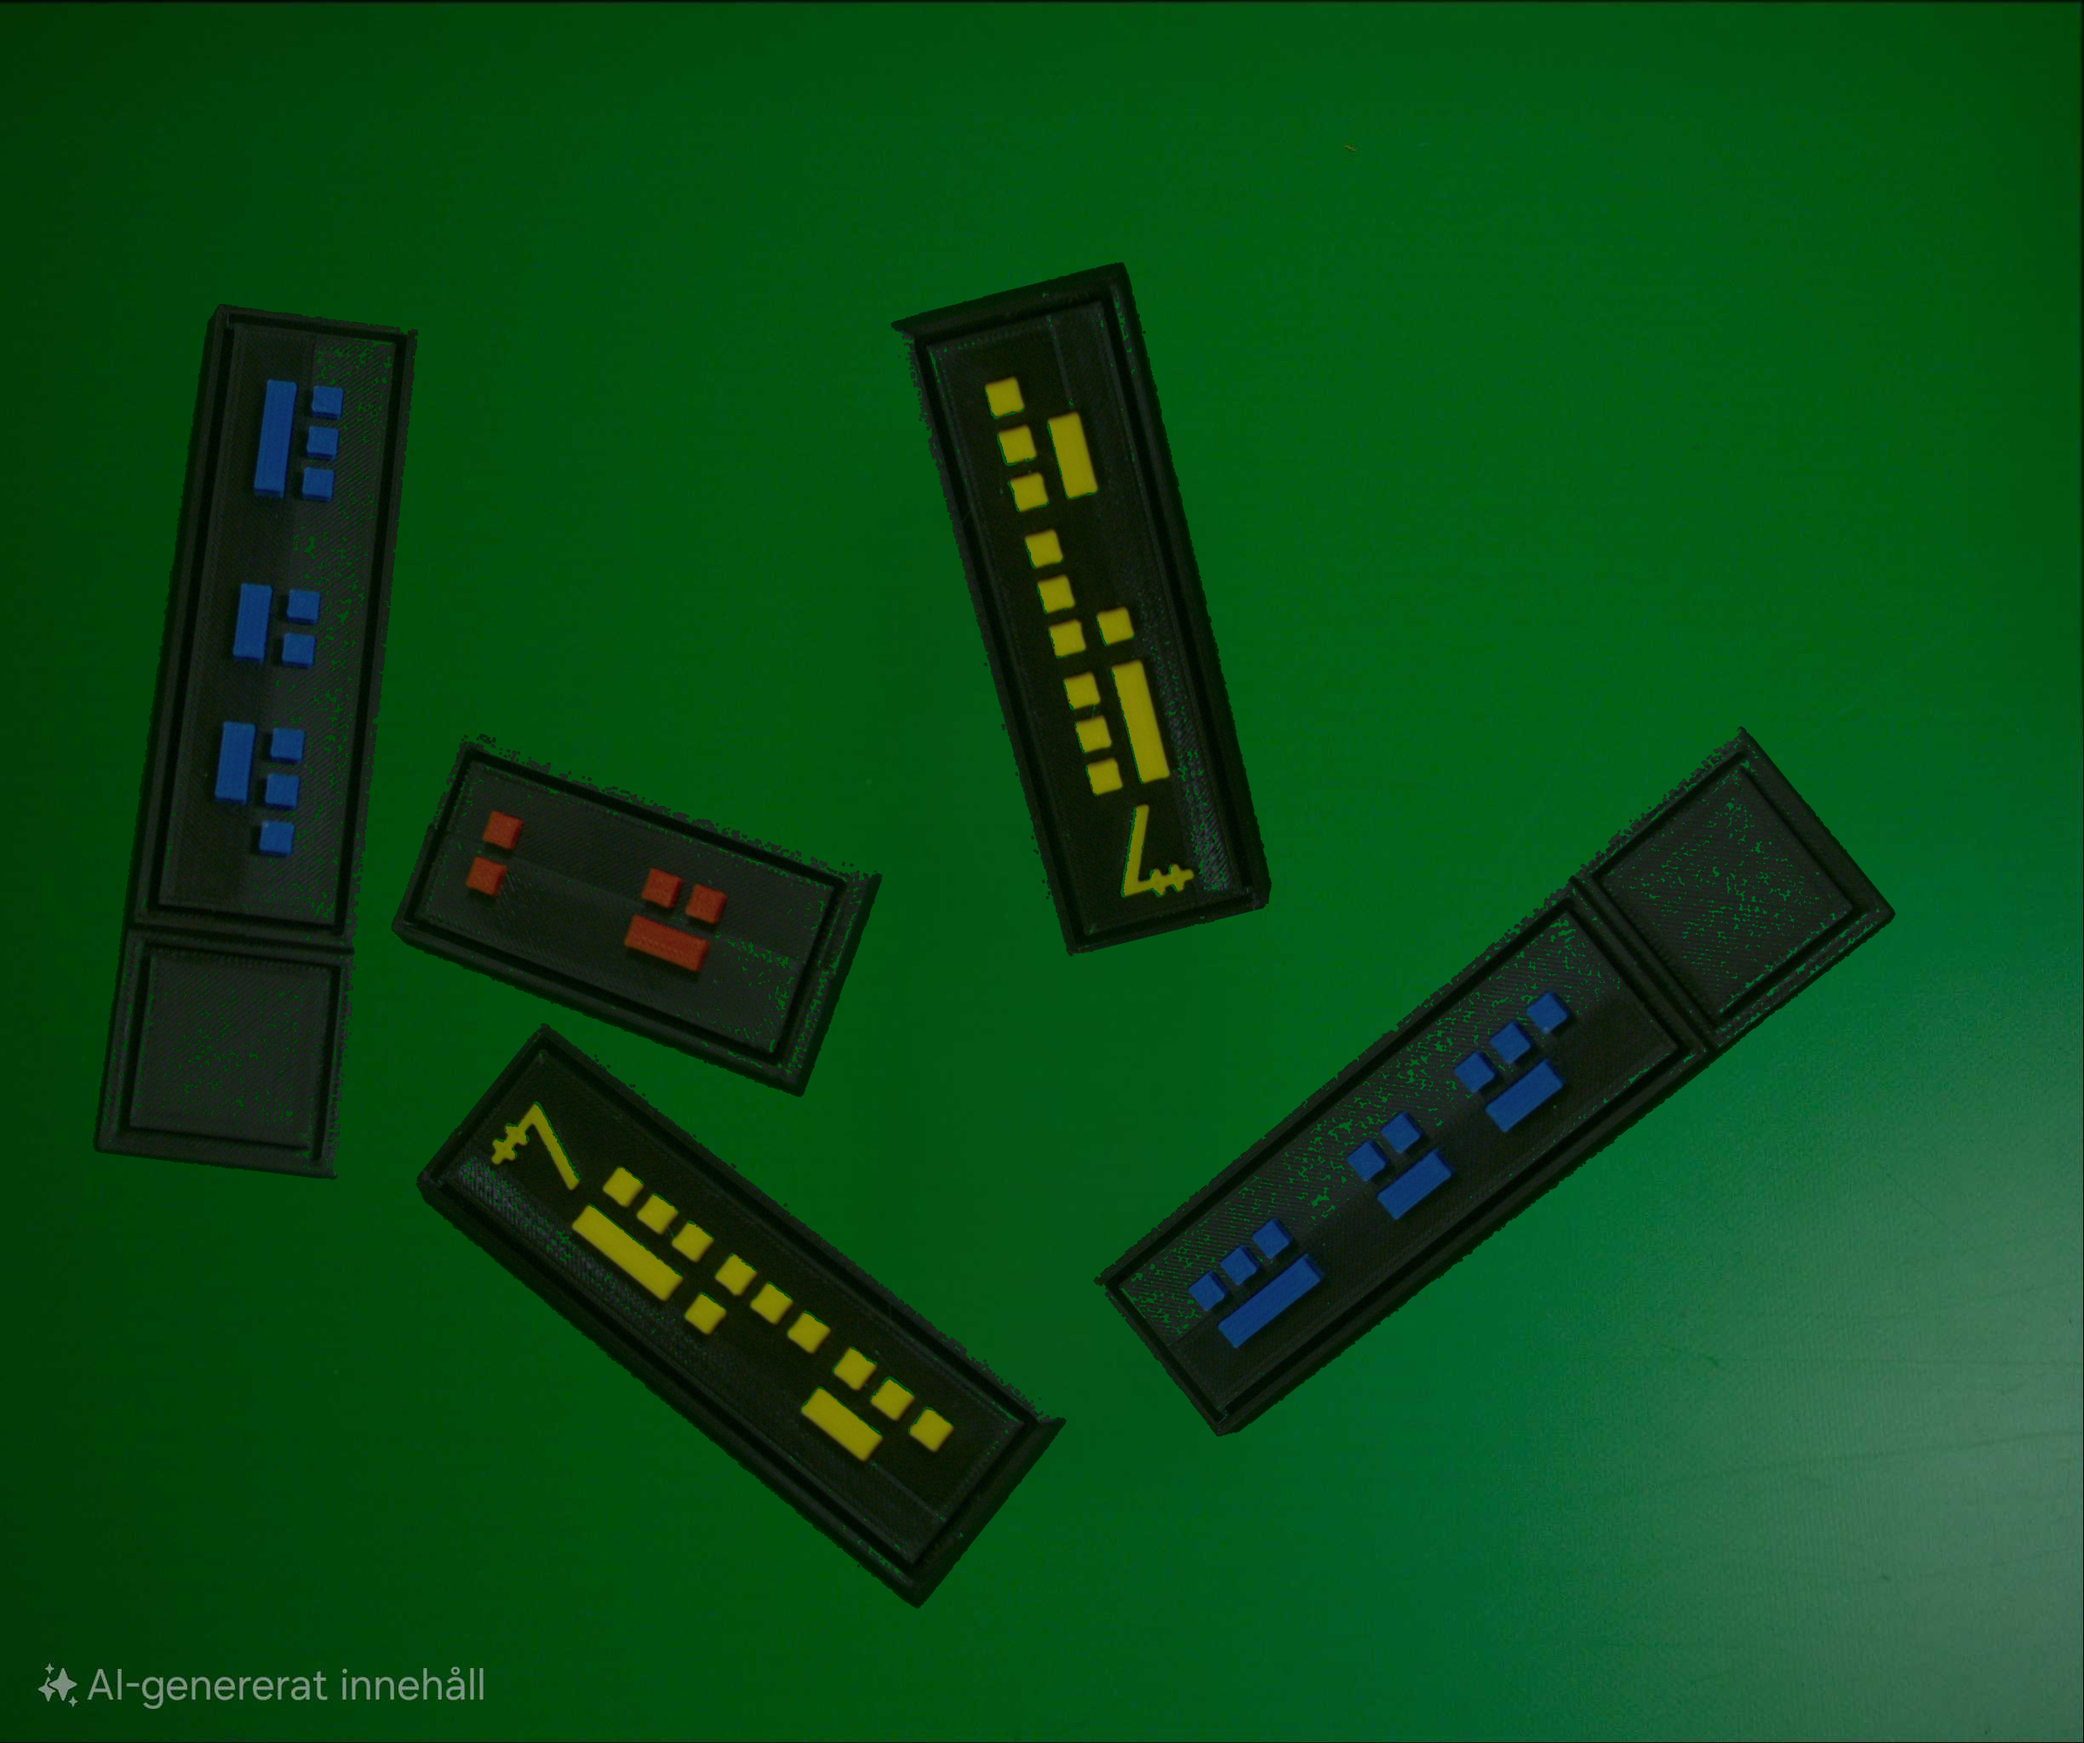
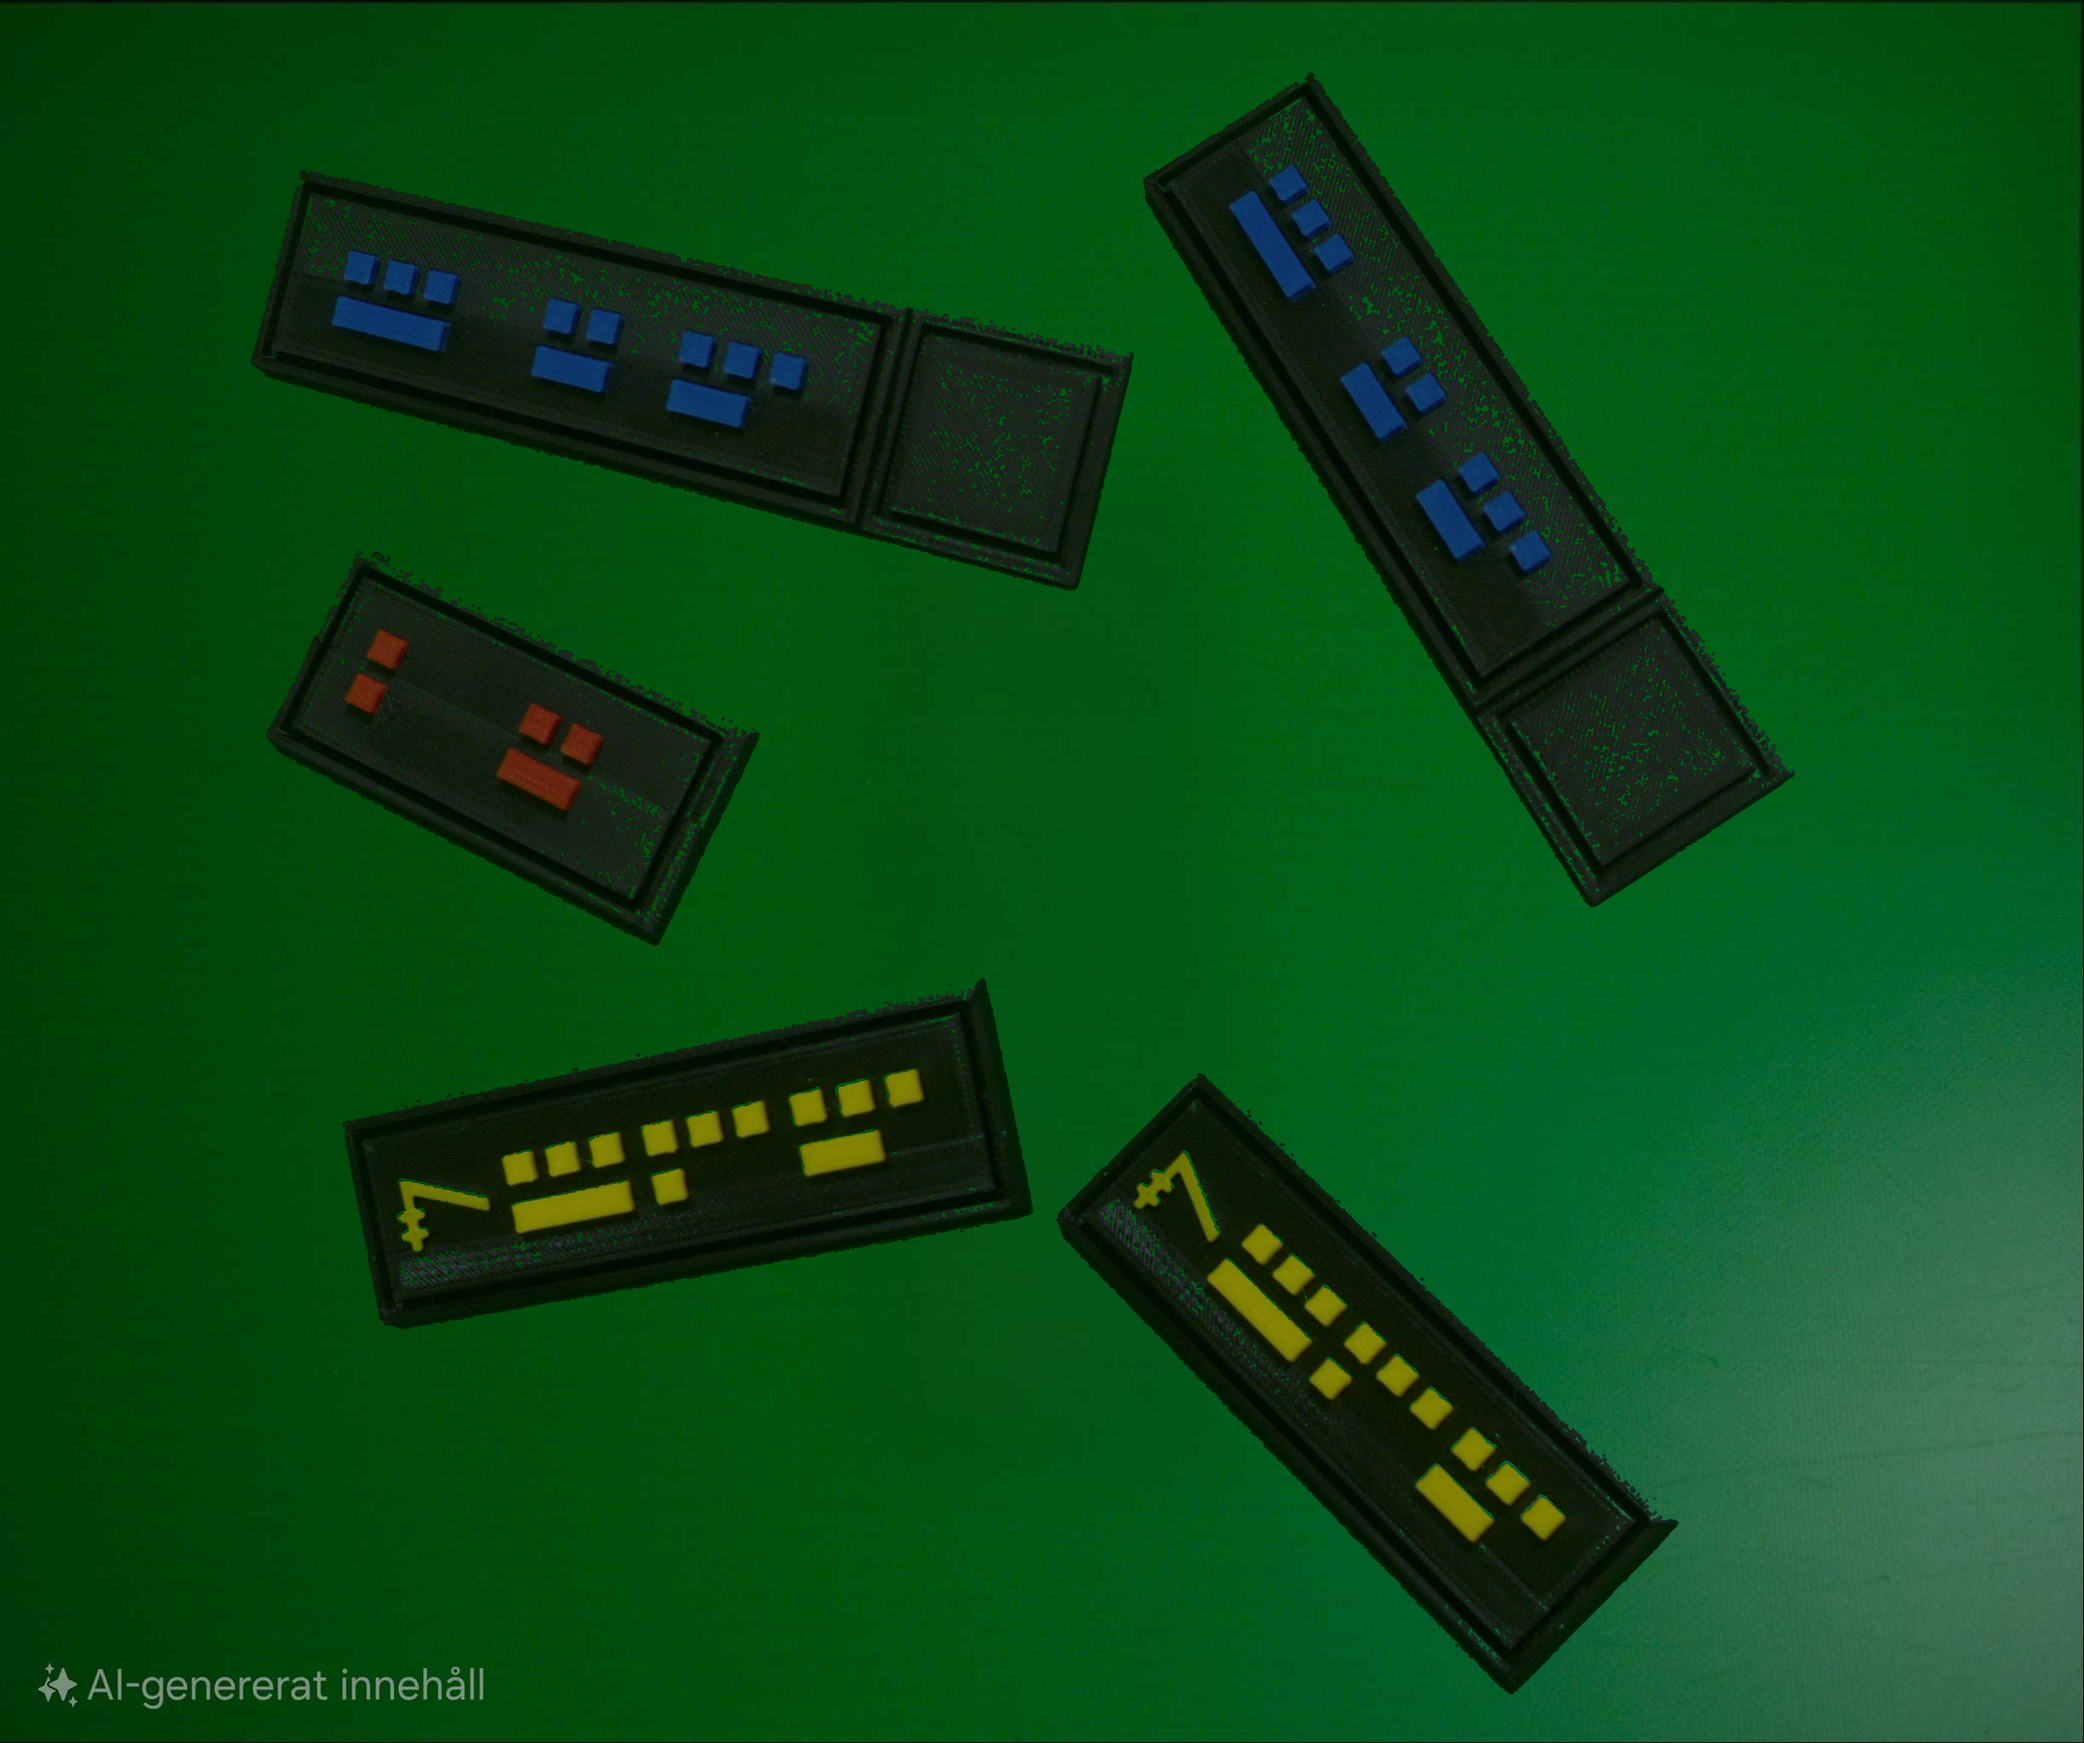
stuff

diff --git a/Generate_Data.py b/Generate_Data.py
@@ -1,7 +1,7 @@
 import cv2
 import numpy as np
 import random
-
+import os
 class Generate_Data:
     def __init__(self):
         # 1. Load Background
@@ -79,55 +79,52 @@ class Generate_Data:
         return rotated
 
     def add_coin_randomly(self, coin_img_original, max_attempts=200):
-        if coin_img_original is None: return False
+            if coin_img_original is None: return None # Changed to None
 
-        bg_h, bg_w = self._backround.shape[:2]
+            bg_h, bg_w = self._backround.shape[:2]
 
-        for attempt in range(max_attempts):
-            # 1. Rotate the coin (and its hitbox)
-            angle = random.randint(0, 360)
-            coin_img = self.rotate_image(coin_img_original, angle)
-            
-            h, w = coin_img.shape[:2]
-            
-            # If coin is physically larger than background, we can't place it
-            if w >= bg_w or h >= bg_h:
-                continue 
+            for attempt in range(max_attempts):
+                # 1. Rotate the coin
+                angle = random.randint(0, 360)
+                coin_img = self.rotate_image(coin_img_original, angle)
+                
+                h, w = coin_img.shape[:2]
+                
+                # If coin is physically larger than background, we can't place it
+                if w >= bg_w or h >= bg_h:
+                    continue 
 
-            # 2. Generate the "Hitbox" (Mask) for this specific rotation
-            # We look at the Alpha channel. White = Solid Coin, Black = Empty.
-            if coin_img.shape[2] == 4:
-                # Any pixel that is visibly opaque enough to matter
-                _, coin_mask = cv2.threshold(coin_img[:, :, 3], 10, 255, cv2.THRESH_BINARY)
-            else:
-                coin_mask = 255 * np.ones((h, w), dtype=np.uint8)
+                # 2. Generate the "Hitbox" (Mask)
+                if coin_img.shape[2] == 4:
+                    _, coin_mask = cv2.threshold(coin_img[:, :, 3], 10, 255, cv2.THRESH_BINARY)
+                else:
+                    coin_mask = 255 * np.ones((h, w), dtype=np.uint8)
 
-            # 3. Pick a random spot
-            x = random.randint(0, bg_w - w)
-            y = random.randint(0, bg_h - h)
+                # 3. Pick a random spot
+                x = random.randint(0, bg_w - w)
+                y = random.randint(0, bg_h - h)
 
-            # 4. CHECK COLLISIONS
-            # Get the region of the 'Occupied Mask' where we want to put the coin
-            bg_mask_region = self._occupied_mask[y:y+h, x:x+w]
-            
-            # Bitwise AND: Checks if White overlaps White
-            intersection = cv2.bitwise_and(bg_mask_region, coin_mask)
-            
-            if np.any(intersection):
-                # We hit something! Try again.
-                continue 
-            
-            # 5. Success! Place the visual image AND update the occupied mask
-            self._place_pixels(coin_img, x, y)
-            
-            # Update the global mask so future coins know this spot is taken
-            # Bitwise OR: Adds the new coin's shape to the existing mask
-            self._occupied_mask[y:y+h, x:x+w] = cv2.bitwise_or(bg_mask_region, coin_mask)
-            
-            return True
+                # 4. CHECK COLLISIONS
+                bg_mask_region = self._occupied_mask[y:y+h, x:x+w]
+                intersection = cv2.bitwise_and(bg_mask_region, coin_mask)
 
-        print("Failed to place coin (No valid spot found).")
-        return False
+
+                if np.any(intersection):
+                    continue 
+                
+                # 5. Success! Place image and update mask
+                self._place_pixels(coin_img, x, y)
+                self._occupied_mask[y:y+h, x:x+w] = cv2.bitwise_or(bg_mask_region, coin_mask)
+
+                # cv2.imshow("occupied_mask", self._occupied_mask)
+                # cv2.waitKey(0)
+
+                # --- CHANGE: Return the Bounding Box ---
+                # Returns: (x_min, y_min, width, height) in absolute pixels
+                return (x, y, w, h)
+
+            print("Failed to place coin (No valid spot found).")
+            return None # Changed to None
 
     def _place_pixels(self, coin_img, x, y):
         h, w = coin_img.shape[:2]
@@ -155,12 +152,80 @@ if __name__ == "__main__":
     gen = Generate_Data()
     
     # Try to place multiple coins
-    coins = [gen._yellow_coin, gen._blue_coin, gen._red_coin, gen._yellow_coin, gen._blue_coin]
+    coins = [gen._yellow_coin, gen._blue_coin, gen._red_coin]
     
-    count = 0
-    for coin in coins:
-        if gen.add_coin_randomly(coin):
-            count += 1
+
+    def Create_Dataset(n_images, train_ratio=0.8):
+        # 1. Setup Directory Structure
+        base_dir = "dataset"
+        sub_dirs = ["images/train", "images/test", "labels/train", "labels/test"]
+        
+        for sub in sub_dirs:
+            os.makedirs(os.path.join(base_dir, sub), exist_ok=True)
+
+        print(f"Generating {n_images} images...")
+
+        for i in range(n_images):
+            # 2. Reset the background for the new image
+            # Make sure to reload the clean background every time
+            gen._backround = cv2.imread("Backround.jpg", cv2.IMREAD_UNCHANGED)
             
-    print(f"Total coins placed: {count}/{len(coins)}")
-    gen.save_image("Generated_Image.png")
+            # 3. Decide if this image is for Training or Testing
+            is_train = random.random() < train_ratio
+            split_folder = "train" if is_train else "test"
+            
+            # List to hold all labels for this specific image
+            image_labels = []
+            
+            # 4. Place random coins
+            coin_amount = random.randint(1, 5)
+            
+            for _ in range(coin_amount):
+                # Pick a random coin image from your list
+                coin_idx = random.randint(0, len(coins) - 1)
+                bbox = gen.add_coin_randomly(coins[coin_idx], max_attempts=1)
+                
+                if bbox is not None:
+                    x, y, w, h = bbox
+                    bg_h, bg_w = gen._backround.shape[:2]
+
+                    # --- CALCULATE YOLO COORDINATES ---
+                    center_x = x + (w / 2)
+                    center_y = y + (h / 2) # FIXED: was y + (y/2)
+
+                    norm_center_x = center_x / bg_w
+                    norm_center_y = center_y / bg_h
+                    norm_width = w / bg_w
+                    norm_height = h / bg_h
+
+                    # Format: class_id center_x center_y width height
+                    # Assuming class_id is always 0 for 'coin'
+                    label_line = f"0 {norm_center_x:.6f} {norm_center_y:.6f} {norm_width:.6f} {norm_height:.6f}"
+                    image_labels.append(label_line)
+
+            # 5. Save the Image and the Label File
+            # We use 'i' for the filename (e.g., 0.png, 1.png)
+            filename_base = str(i)
+            
+            # Save Image
+            img_path = os.path.join(base_dir, "images", split_folder, f"{filename_base}.png")
+            cv2.imwrite(img_path, gen._backround)
+            
+            # Save Labels (One .txt file per image, containing all coin lines)
+            txt_path = os.path.join(base_dir, "labels", split_folder, f"{filename_base}.txt")
+            with open(txt_path, "w") as f:
+                f.write("\n".join(image_labels))
+                
+            if i % 10 == 0:
+                print(f"Generated {i}/{n_images} images...")
+
+        print("Dataset generation complete!")
+
+    # Run it
+    Create_Dataset(n_images=10)
+    # count = 0
+    # for coin in coins:
+    #     if gen.add_coin_randomly(coin):
+    #         count += 1
+            
+    # print(f"Total coins placed: {count}/{len(coins)}")
